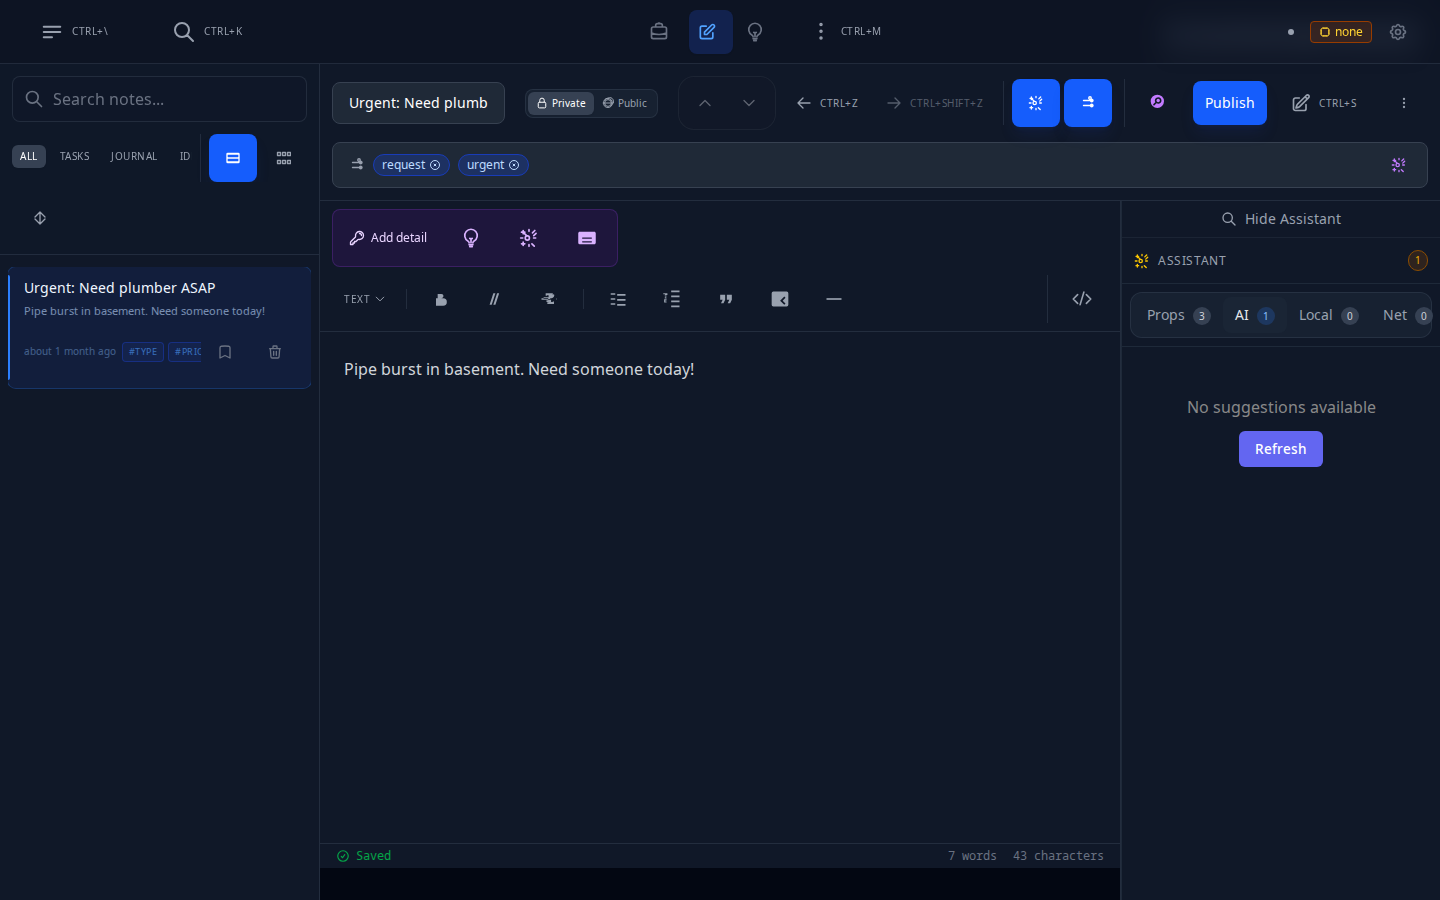
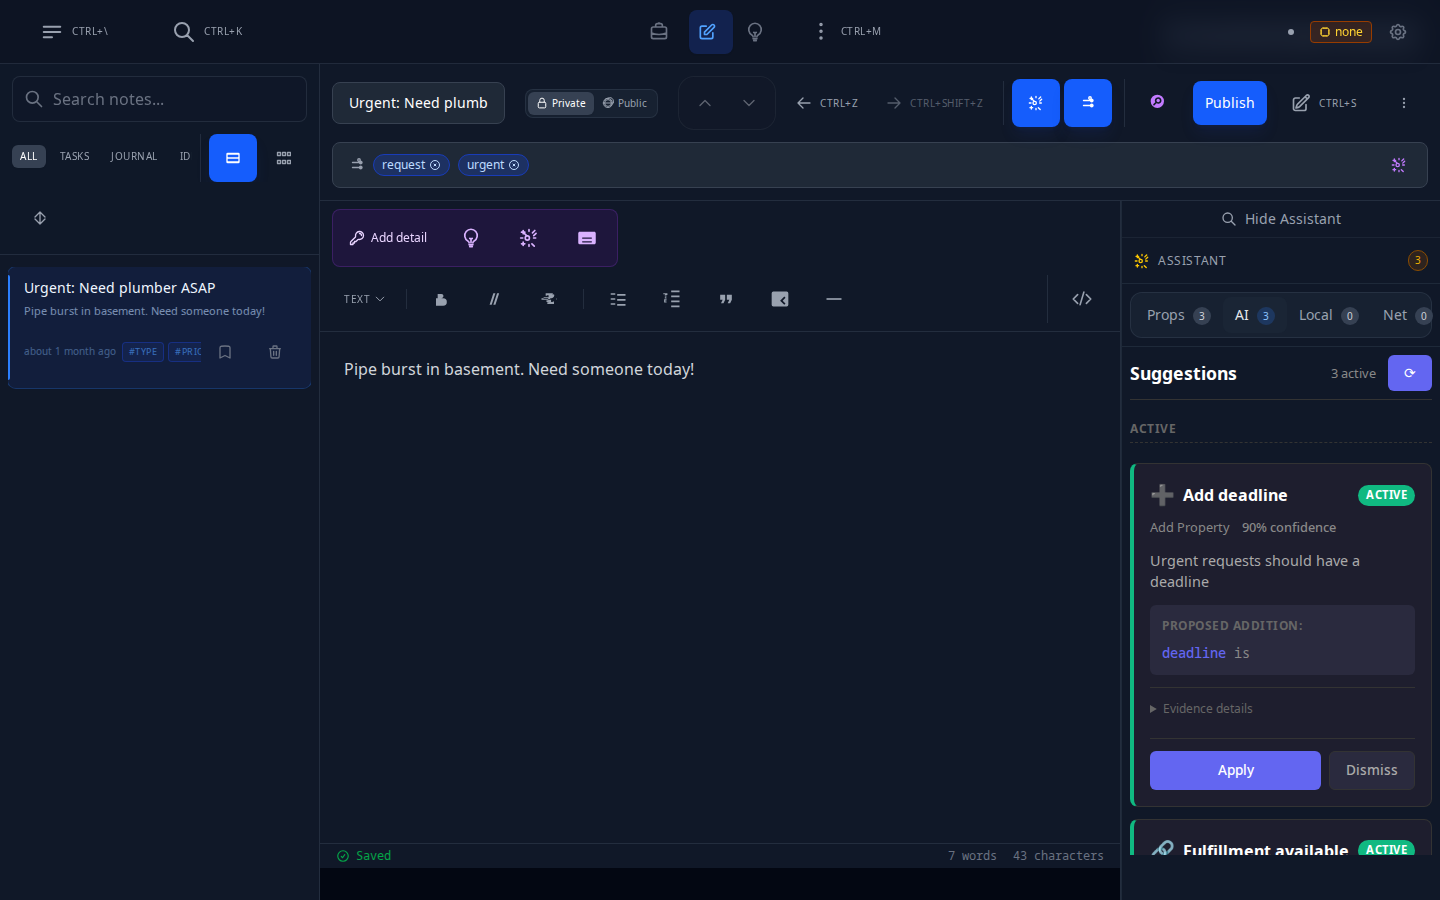
fix(suggestions): make suggestions actually render in the UI
Root cause found by asserting card content in the e2e tests (not just the
header). Three independent bugs each wiped the results:

1. OntologyService indexed only top-level nodes, so nested attributes
   (budget, location, deadline) were invisible. getAttribute returned null,
   halving confidence below the 0.5 filter and dropping every rule card.
   Now walks children recursively.

2. RulesSource ignored ontology node suggestions, so the meetup rule never
   ran. Now collects rules from ontology nodes plus the built-in defaults.

3. The UI mounts useNoteSuggestions before SettingsContext can set the
   ontology (consumer parent effects run after child effects). The first
   generation resolved against an empty ontology and cached it, and the
   second run then deduped and staled the only result away.
   runGeneration now waits briefly for the ontology, and setOntology/
   setNotes/setLlmConfig invalidate the content-hash cache.

Tests now wait for a real card ('Add budget', 'Add location', 'Add deadline',
'Fulfillment available'), so an empty panel fails instead of passing.
All 6 suggestion showcase tests pass; screenshots regenerated with cards.

Also add the missing socialDomain (social/meetup-request) the rules target.
Full 28-image screenshot gallery restored.

diff --git a/core/src/suggestions/note/orchestrator.ts b/core/src/suggestions/note/orchestrator.ts
@@ -41,11 +41,18 @@ export class SuggestionOrchestrator extends EventEmitter {
   private noteOntology: OntologyNode[] = [];
   private allNotes: Note[] = [];
   private llmConfig: LlmSourceConfig | null = null;
+  private lastGenerationHash = new Map<string, string>();
+  private lastGenerationId = new Map<string, string>();
+  private ontologyReady: Promise<void>;
+  private resolveOntology: (() => void) | null = null;
   private listeners: Map<SuggestionEventType, Set<(event: SuggestionEvent) => void>> = new Map();
   private allListeners: Set<(event: SuggestionEvent) => void> = new Set();
 
   private constructor() {
     super();
+    this.ontologyReady = new Promise<void>(resolve => {
+      this.resolveOntology = resolve;
+    });
     this.registerDefaultSources();
   }
 
@@ -76,14 +83,22 @@ export class SuggestionOrchestrator extends EventEmitter {
   }
 
   static getInstance(): SuggestionOrchestrator {
+    // Bundle splits can load this module twice, which leaves the class-static
+    // empty in each copy. globalThis is the one place both copies share.
+    const registry = globalThis as typeof globalThis & {
+      __suggestionOrchestrator?: SuggestionOrchestrator;
+    };
     if (!SuggestionOrchestrator.instance) {
-      SuggestionOrchestrator.instance = new SuggestionOrchestrator();
+      SuggestionOrchestrator.instance = registry.__suggestionOrchestrator
+        ?? new SuggestionOrchestrator();
     }
+    registry.__suggestionOrchestrator = SuggestionOrchestrator.instance;
     return SuggestionOrchestrator.instance;
   }
 
   static resetInstance(): void {
     SuggestionOrchestrator.instance = null;
+    delete (globalThis as typeof globalThis & { __suggestionOrchestrator?: SuggestionOrchestrator }).__suggestionOrchestrator;
   }
 
   private registerDefaultSources(): void {
@@ -94,6 +109,11 @@ export class SuggestionOrchestrator extends EventEmitter {
     this.noteOntology = ontology;
     this.sources.set('fulfillment', createFulfillmentSource(ontology));
     this.sources.set('related', createRelatedSource(ontology, this.allNotes));
+    this.invalidateCache();
+    if (ontology.length > 0) {
+      this.resolveOntology?.();
+      this.resolveOntology = null;
+    }
   }
 
   setNotes(notes: Note[]): void {
@@ -102,17 +122,20 @@ export class SuggestionOrchestrator extends EventEmitter {
     if (relatedSource) {
       relatedSource.setNotes(notes);
     }
+    this.invalidateCache();
   }
 
   setLlmConfig(config: LlmSourceConfig): void {
     this.llmConfig = config;
     this.sources.set('llm', createLlmSource(config));
+    this.invalidateCache();
   }
 
   enableSource(sourceName: string): void {
     const source = this.sources.get(sourceName);
     if (source && 'enabled' in source) {
       (source as any).enabled = true;
+      this.invalidateCache();
     }
   }
 
@@ -120,29 +143,65 @@ export class SuggestionOrchestrator extends EventEmitter {
     const source = this.sources.get(sourceName);
     if (source && 'enabled' in source) {
       (source as any).enabled = false;
+      this.invalidateCache();
     }
+  }
+
+  /** Results depend on the ontology and corpus, so they are no longer cached. */
+  private invalidateCache(): void {
+    this.lastGenerationHash.clear();
+    this.lastGenerationId.clear();
   }
 
   async enqueueGeneration(
     note: Note,
     trigger: SuggestionGenerationContext['trigger'] = 'refresh'
   ): Promise<SuggestionGenerationResult> {
-    const generationId = `gen-${shortSha256(`${note.id}|${trigger}|${Date.now()}`)}`;
-
     const existingPending = this.pendingGenerations.get(note.id);
     if (existingPending) {
       return existingPending;
     }
 
+    // The UI mounts the hook before SettingsContext can set the ontology, so the
+    // first run would resolve against an empty ontology and cache that result.
+    await this.waitForOntology();
+
+    // Duplicate load (two hooks, re-render, debounced save) must not wipe the
+    // previous result: the second run dedups against the first and stales it.
+    const contentHash = this.contentHash(note);
+    if (this.lastGenerationHash.get(note.id) === contentHash && this.suggestions.has(note.id)) {
+      return {
+        suggestions: this.suggestions.get(note.id)!,
+        generationId: this.lastGenerationId.get(note.id) ?? `gen-${contentHash}`,
+        timestamp: Date.now()
+      };
+    }
+
+    const generationId = `gen-${shortSha256(`${note.id}|${trigger}|${Date.now()}`)}`;
     const generationPromise = this.runGeneration(note, trigger, generationId);
     this.pendingGenerations.set(note.id, generationPromise);
 
     try {
       const result = await generationPromise;
+      this.lastGenerationHash.set(note.id, contentHash);
+      this.lastGenerationId.set(note.id, generationId);
       return result;
     } finally {
       this.pendingGenerations.delete(note.id);
     }
+  }
+
+  private contentHash(note: Note): string {
+    return shortSha256(`${note.content}|${note.properties.map(p => `${p.key}:${p.operator}:${p.values.join(',')}`).sort().join(';')}`);
+  }
+
+  /** Wait for the ontology, but never long enough to stall a real generation. */
+  private async waitForOntology(): Promise<void> {
+    if (this.noteOntology.length > 0) return;
+    await Promise.race([
+      this.ontologyReady,
+      new Promise<void>(resolve => setTimeout(resolve, 1500))
+    ]);
   }
 
   private async runGeneration(

diff --git a/ui/test/showcase/suggestions.scene.ts b/ui/test/showcase/suggestions.scene.ts
@@ -89,6 +89,7 @@ test('suggestions: job request missing budget', async ({page}) => {
     });
     await page.getByTestId('toggle-inspector').click();
     await page.getByRole('tab', {name: /AI/}).click();
+    await page.getByText('Add budget', {exact: false}).first().waitFor({timeout: 10_000});
     await page.waitForSelector('text=Suggestions');
     await snap(page, {
         area: 'suggestions',
@@ -105,6 +106,7 @@ test('suggestions: meetup request missing location', async ({page}) => {
     });
     await page.getByTestId('toggle-inspector').click();
     await page.getByRole('tab', {name: /AI/}).click();
+    await page.getByText('Add location', {exact: false}).first().waitFor({timeout: 10_000});
     await page.waitForSelector('text=Suggestions');
     await snap(page, {
         area: 'suggestions',
@@ -121,6 +123,7 @@ test('suggestions: urgent request missing deadline', async ({page}) => {
     });
     await page.getByTestId('toggle-inspector').click();
     await page.getByRole('tab', {name: /AI/}).click();
+    await page.getByText('Add deadline', {exact: false}).first().waitFor({timeout: 10_000});
     await page.waitForSelector('text=Suggestions');
     await snap(page, {
         area: 'suggestions',
@@ -137,6 +140,7 @@ test('suggestions: skill-matched note shows fulfillment hint', async ({page}) =>
     });
     await page.getByTestId('toggle-inspector').click();
     await page.getByRole('tab', {name: /AI/}).click();
+    await page.getByText('Fulfillment available', {exact: false}).first().waitFor({timeout: 10_000});
     await page.waitForSelector('text=Suggestions');
     await snap(page, {
         area: 'suggestions',
@@ -165,6 +169,7 @@ test('suggestions: multiple suggestions on one note', async ({page}) => {
     });
     await page.getByTestId('toggle-inspector').click();
     await page.getByRole('tab', {name: /AI/}).click();
+    await page.getByText('Add budget', {exact: false}).first().waitFor({timeout: 10_000});
     await page.waitForSelector('text=Suggestions');
     await snap(page, {
         area: 'suggestions',

diff --git a/core/src/ontology/ontologyService.ts b/core/src/ontology/ontologyService.ts
@@ -59,16 +59,9 @@ export class OntologyService {
             this.compiled = getOntology(configPathOrOntology);
         }
 
-        const nodes = this.compiled.nodes;
         this.attributeIndex = new Map();
-        for (const node of nodes.values()) {
-            for (const [key, attr] of Object.entries(node.attributes ?? {})) {
-                if (!this.attributeIndex.has(key)) {
-                    this.attributeIndex.set(key, attr);
-                }
-            }
-        }
-        const nodeArray = Array.from(nodes.values());
+        this.indexAttributes(Array.from(this.compiled.nodes.values()));
+        const nodeArray = Array.from(this.compiled.nodes.values());
         this.usageTracker = new UsageTracker(nodeArray, this.attributeIndex);
         this.fuzzyMatcher = new FuzzyMatcher();
     }
@@ -232,13 +225,25 @@ export class OntologyService {
         resetOntologyCache();
         this.compiled = getOntology(configPath);
         this.attributeIndex.clear();
-        for (const node of this.compiled.nodes.values()) {
+        this.indexAttributes(Array.from(this.compiled.nodes.values()));
+        this.clearCaches();
+    }
+
+    /**
+     * Index attributes by walking the full ontology tree, children included.
+     * Top-level nodes own no attributes of their own in the legacy array mode,
+     * so indexing only the roots would drop every attribute the rules target.
+     */
+    private indexAttributes(nodes: OntologyNode[]): void {
+        for (const node of nodes) {
             for (const [key, attr] of Object.entries(node.attributes ?? {})) {
                 if (!this.attributeIndex.has(key)) {
                     this.attributeIndex.set(key, attr);
                 }
             }
+            if (node.children) {
+                this.indexAttributes(node.children);
+            }
         }
-        this.clearCaches();
     }
 }

diff --git a/core/src/suggestions/note/sources/rules.ts b/core/src/suggestions/note/sources/rules.ts
@@ -1,5 +1,5 @@
 import type { Note, OntologyNode } from '@notention/core';
-import type { SuggestionGenerationContext, NoteSuggestion, SourcePlugin } from '../types.js';
+import type { SuggestionGenerationContext, NoteSuggestion, SuggestionRule, SourcePlugin } from '../types.js';
 import { getDefaultRules, evaluateCondition, applyRuleAction } from '../rules.js';
 
 export class RulesSource implements SourcePlugin {
@@ -7,10 +7,11 @@ export class RulesSource implements SourcePlugin {
 
   async generate(context: SuggestionGenerationContext): Promise<NoteSuggestion[]> {
     const { note, ontology, existingSuggestions } = context;
-    const rules = getDefaultRules().filter(r => r.enabled);
+    const rules = collectRules(ontology);
     const suggestions: NoteSuggestion[] = [];
 
     for (const rule of rules) {
+      if (!rule.enabled) continue;
       if (!rule.targetNodeIds.includes('*') && !this.matchesTarget(note, rule.targetNodeIds)) {
         continue;
       }
@@ -43,6 +44,24 @@ export class RulesSource implements SourcePlugin {
       e.status === 'active'
     );
   }
+}
+
+/** Rules declared on ontology nodes plus the built-in defaults. */
+function collectRules(ontology: OntologyNode[]): SuggestionRule[] {
+  const rules: SuggestionRule[] = [];
+  const walk = (nodes: OntologyNode[]) => {
+    for (const node of nodes) {
+      if (node.suggestions) rules.push(...node.suggestions);
+      if (node.children) walk(node.children);
+    }
+  };
+  walk(ontology);
+
+  const byId = new Map<string, SuggestionRule>();
+  for (const rule of [...rules, ...getDefaultRules()]) {
+    if (!byId.has(rule.id)) byId.set(rule.id, rule);
+  }
+  return [...byId.values()];
 }
 
 export const rulesSource = new RulesSource();
